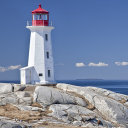
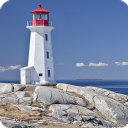
Minor package improvements

diff --git a/Halifax.Models/ApiResponse.cs b/Halifax.Models/ApiResponse.cs
@@ -21,10 +21,19 @@ namespace Halifax.Models
         public ApiResponseError Error { get; private init; }
         public bool Success { get; private init; } = true;
 
+        /// <summary>
+        /// Empty API response
+        /// </summary>
         public static ApiResponse Empty => new ApiResponse();
         
+        /// <summary>
+        /// Return API response with the data provided 
+        /// </summary>
         public static ApiResponse<TData> With<TData>(TData data) => new ApiResponse<TData>(data);
 
+        /// <summary>
+        /// Return API response with exception info
+        /// </summary>
         public static ApiResponse With(Exception exception) => new ApiResponse
         {
             Success = false,

diff --git a/Halifax.Core/Env.cs b/Halifax.Core/Env.cs
@@ -82,6 +82,9 @@ namespace Halifax.Core
                 });
         }
 
+        /// <summary>
+        /// Get object representation of a configuration section from env. variables.
+        /// </summary>
         public static TSection GetSection<TSection>(string section = null)
         {
             var configType = typeof(TSection);
